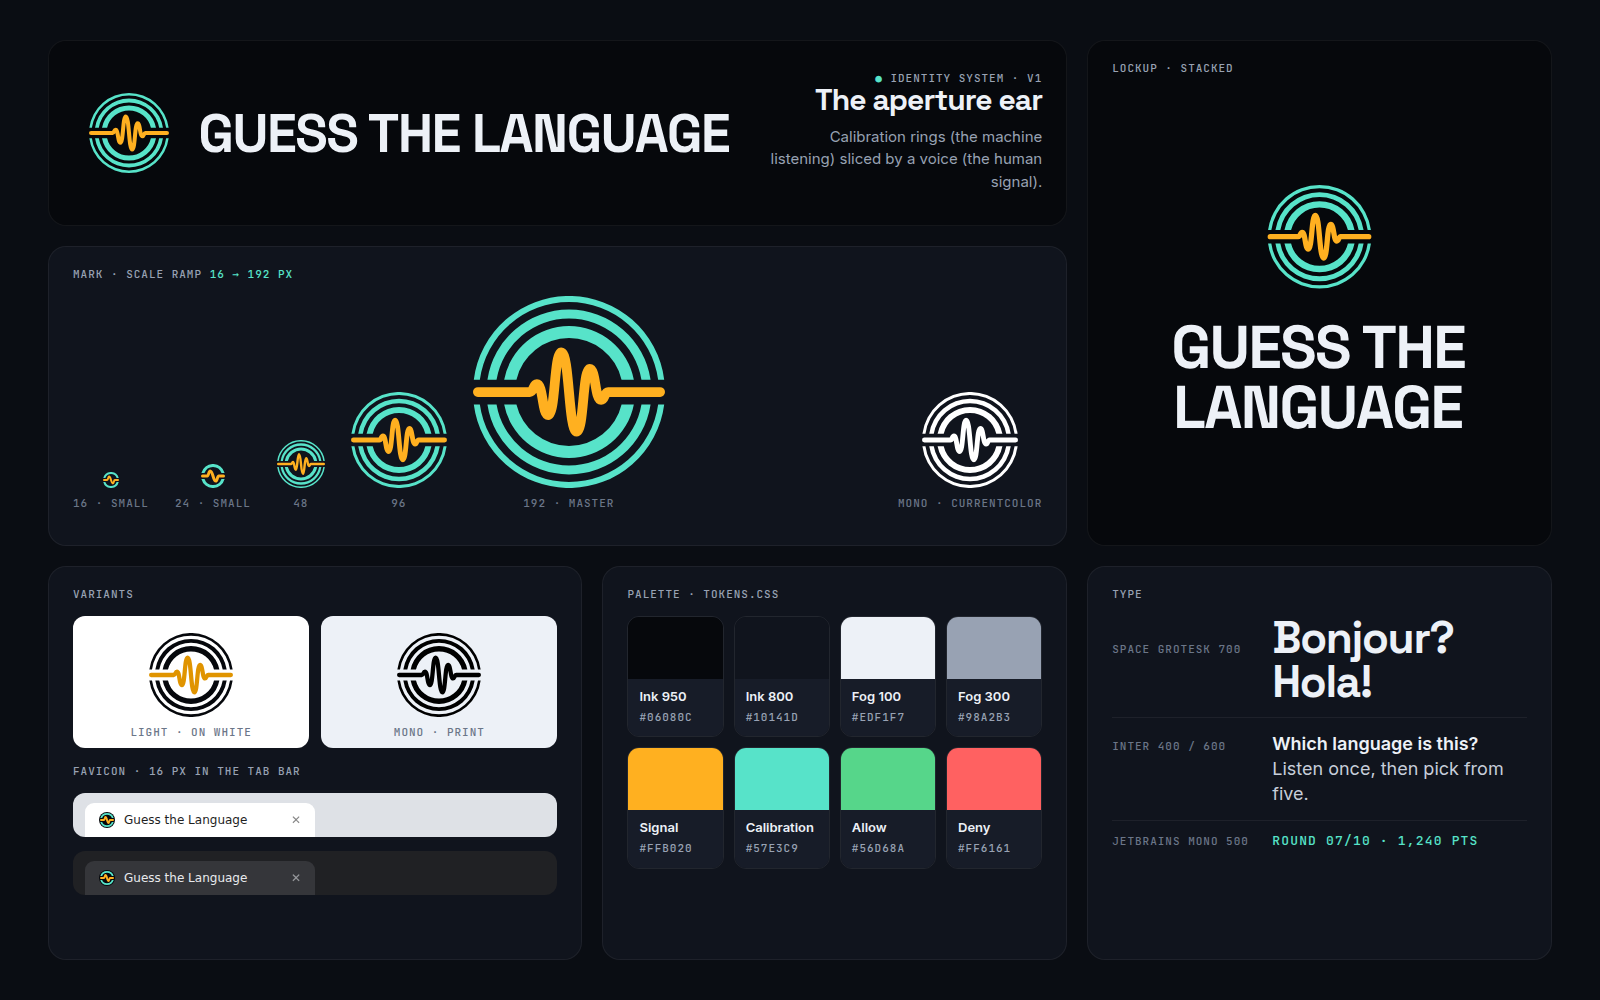
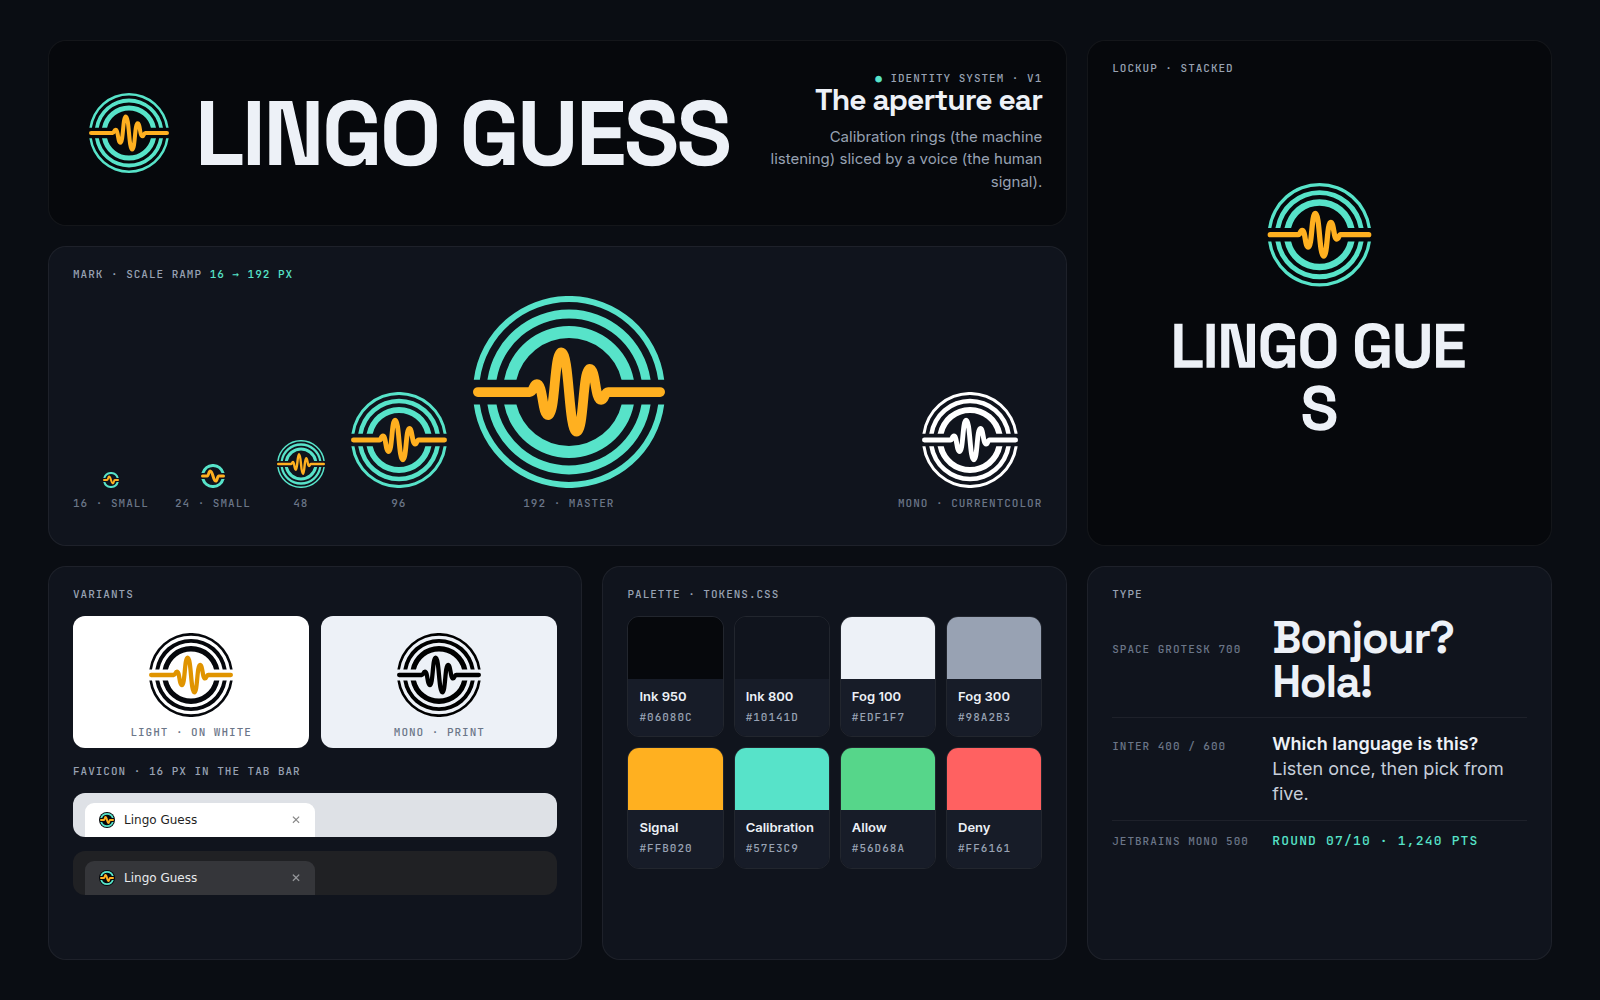
Rebrand to Lingo Guess: code, docs, admin, brand assets, domain-root base path

diff --git a/brand/preview.html b/brand/preview.html
@@ -2,7 +2,7 @@
 <html lang="en">
 <head>
 <meta charset="utf-8">
-<title>Guess the Language — identity contact sheet</title>
+<title>Lingo Guess — identity contact sheet</title>
 <!-- Source for brand/preview.png (1600×1000). Render: node brand/tools/build.mjs -->
 <link rel="stylesheet" href="../public/fonts/fonts.css">
 <style>
@@ -56,7 +56,7 @@
 </head>
 <body>
   <section class="card hero">
-    <img src="lockup-horizontal.svg" alt="Guess the Language lockup">
+    <img src="lockup-horizontal.svg" alt="Lingo Guess lockup">
     <div class="meta">
       <p class="label"><b>●</b> Identity system · v1</p>
       <h1>The aperture ear</h1>
@@ -89,8 +89,8 @@
     </div>
     <p class="label" style="margin-top:18px">Favicon · 16 px in the tab bar</p>
     <div class="tabs">
-      <div class="strip light"><div class="tab"><img src="../public/favicon.svg" alt=""><span>Guess the Language</span><em>✕</em></div></div>
-      <div class="strip dark"><div class="tab"><img src="../public/favicon.svg" alt=""><span>Guess the Language</span><em>✕</em></div></div>
+      <div class="strip light"><div class="tab"><img src="../public/favicon.svg" alt=""><span>Lingo Guess</span><em>✕</em></div></div>
+      <div class="strip dark"><div class="tab"><img src="../public/favicon.svg" alt=""><span>Lingo Guess</span><em>✕</em></div></div>
     </div>
   </section>
 

diff --git a/brand/og.html b/brand/og.html
@@ -2,7 +2,7 @@
 <html lang="en">
 <head>
 <meta charset="utf-8">
-<title>Guess the Language — share card</title>
+<title>Lingo Guess — share card</title>
 <!-- Source for public/og.png (1200×630) and public/og-square.png (1200×1200).
      Render with `node brand/tools/build.mjs` (inlines fonts + images first). -->
 <link rel="stylesheet" href="../public/fonts/fonts.css">
@@ -36,14 +36,14 @@
 <canvas id="field"></canvas>
 <div class="mono tl"><b>●</b> Listening</div>
 <div class="mono tr">76 languages</div>
-<div class="mono bl">mvpetrone.github.io/Language-guesser</div>
+<div class="mono bl">lingoguess.com</div>
 <div class="mono br">10 rounds · 3 lives</div>
 <main class="stage">
   <div class="aperture">
     <i class="tick t"></i><i class="tick b"></i><i class="tick l"></i><i class="tick r"></i>
     <img src="mark.svg" alt="">
   </div>
-  <img class="word" src="wordmark.svg" alt="Guess the Language">
+  <img class="word" src="wordmark.svg" alt="Lingo Guess">
   <p class="tag">Hear one sentence. Name the language.</p>
 </main>
 <script>

diff --git a/brand/motion/logo-reveal.html b/brand/motion/logo-reveal.html
@@ -2,7 +2,7 @@
 <html lang="en">
 <head>
 <meta charset="utf-8">
-<title>Guess the Language — logo reveal (1080 × 1080, 5 s)</title>
+<title>Lingo Guess — logo reveal (1080 × 1080, 5 s)</title>
 <link rel="stylesheet" href="../../src/styles/tokens.css">
 <link rel="stylesheet" href="motion-kit.css">
 </head>
@@ -188,7 +188,7 @@ function words(ctx, t) {
     ctx.textBaseline = 'alphabetic'
     ctx.fillStyle = K.rgba(C.fog100, a)
     ctx.filter = `blur(${(7 * (1 - settle(K.seg(t, T.word, d4)))).toFixed(2)}px)`
-    ctx.fillText('GUESS THE LANGUAGE', 540 + track / 2, WORD_Y)
+    ctx.fillText('LINGO GUESS', 540 + track / 2, WORD_Y)
     ctx.filter = 'none'
   }
   const b = settle(K.seg(t, T.tag, d3))

diff --git a/playwright.config.ts b/playwright.config.ts
@@ -14,7 +14,7 @@ export default defineConfig({
   retries: 0,
   reporter: 'list',
   use: {
-    baseURL: `http://127.0.0.1:${PORT}/Language-guesser/`,
+    baseURL: `http://127.0.0.1:${PORT}/`,
     trace: 'off',
   },
   projects: [
@@ -25,7 +25,7 @@ export default defineConfig({
   ],
   webServer: {
     command: `node scripts/serve-dist.mjs ${PORT}`,
-    url: `http://127.0.0.1:${PORT}/Language-guesser/`,
+    url: `http://127.0.0.1:${PORT}/`,
     reuseExistingServer: false,
     timeout: 15_000,
   },

diff --git a/src/styles/index.css b/src/styles/index.css
@@ -1,5 +1,5 @@
 /* ============================================================================
-   GUESS THE LANGUAGE — STYLESHEET ENTRY (the only CSS file main.tsx imports)
+   LINGO GUESS — STYLESHEET ENTRY (the only CSS file main.tsx imports)
    ----------------------------------------------------------------------------
    Layer order, lowest priority first. A later layer always beats an earlier
    one regardless of selector specificity, so screens can adjust controls

diff --git a/vite.config.ts b/vite.config.ts
@@ -3,9 +3,9 @@ import { defineConfig } from 'vitest/config'
 
 // https://vite.dev/config/
 export default defineConfig({
-  // MUST match the GitHub repo name exactly — GitHub Pages serves project
-  // sites from https://<user>.github.io/<repo>/
-  base: '/Language-guesser/',
+  // The site is served from the domain root (lingoguess.com), so assets,
+  // audio and /admin all resolve from '/'.
+  base: '/',
   plugins: [react()],
   test: {
     environment: 'node',

diff --git a/src/styles/tokens.css b/src/styles/tokens.css
@@ -1,5 +1,5 @@
 /* ============================================================================
-   GUESS THE LANGUAGE — DESIGN TOKENS (FROZEN CONTRACT)
+   LINGO GUESS — DESIGN TOKENS (FROZEN CONTRACT)
    ----------------------------------------------------------------------------
    This file is the single source of truth for the brand's raw values.
    It is FROZEN: agents and components may *consume* these variables and may add

diff --git a/brand/motion/waveform-loop.html b/brand/motion/waveform-loop.html
@@ -2,7 +2,7 @@
 <html lang="en">
 <head>
 <meta charset="utf-8">
-<title>Guess the Language — waveform loop (1080 × 1080, 6 s seamless)</title>
+<title>Lingo Guess — waveform loop (1080 × 1080, 6 s seamless)</title>
 <link rel="stylesheet" href="../../src/styles/tokens.css">
 <link rel="stylesheet" href="motion-kit.css">
 </head>

diff --git a/brand/motion/score-sting.html b/brand/motion/score-sting.html
@@ -2,7 +2,7 @@
 <html lang="en">
 <head>
 <meta charset="utf-8">
-<title>Guess the Language — score sting (1080 × 1080, 2 s)</title>
+<title>Lingo Guess — score sting (1080 × 1080, 2 s)</title>
 <link rel="stylesheet" href="../../src/styles/tokens.css">
 <link rel="stylesheet" href="motion-kit.css">
 <style>

diff --git a/server/admin/assets/admin.css b/server/admin/assets/admin.css
@@ -1,4 +1,4 @@
-/* LingoGuess Admin — same visual language as the game: near-black, amber, mono numerals. */
+/* Lingo Guess Admin — same visual language as the game: near-black, amber, mono numerals. */
 :root {
   --bg: #06080c;
   --panel: #0c1017;

diff --git a/server/admin/dashboard.php b/server/admin/dashboard.php
@@ -13,7 +13,7 @@ $csrf = csrf_token();
 <meta charset="utf-8" />
 <meta name="viewport" content="width=device-width, initial-scale=1" />
 <meta name="robots" content="noindex, nofollow" />
-<title>Traffic · LingoGuess Admin</title>
+<title>Traffic · Lingo Guess Admin</title>
 <link rel="icon" href="/favicon.svg" type="image/svg+xml" />
 <link rel="stylesheet" href="/fonts/fonts.css" />
 <link rel="stylesheet" href="/admin/assets/admin.css" />
@@ -22,7 +22,7 @@ $csrf = csrf_token();
 <header class="topbar">
   <div class="brand">
     <span class="brand-mark" aria-hidden="true"></span>
-    <div><strong>LingoGuess</strong><small>Admin · CRM</small></div>
+    <div><strong>Lingo Guess</strong><small>Admin · CRM</small></div>
   </div>
   <span class="pill"><span class="dot"></span><span id="live">—</span> live now</span>
   <div class="spacer"></div>

diff --git a/server/admin/activity.php b/server/admin/activity.php
@@ -13,7 +13,7 @@ $csrf = csrf_token();
 <meta charset="utf-8" />
 <meta name="viewport" content="width=device-width, initial-scale=1" />
 <meta name="robots" content="noindex, nofollow" />
-<title>Activity · LingoGuess Admin</title>
+<title>Activity · Lingo Guess Admin</title>
 <link rel="icon" href="/favicon.svg" type="image/svg+xml" />
 <link rel="stylesheet" href="/fonts/fonts.css" />
 <link rel="stylesheet" href="/admin/assets/admin.css" />
@@ -22,7 +22,7 @@ $csrf = csrf_token();
 <header class="topbar">
   <div class="brand">
     <span class="brand-mark" aria-hidden="true"></span>
-    <div><strong>LingoGuess</strong><small>Admin · CRM</small></div>
+    <div><strong>Lingo Guess</strong><small>Admin · CRM</small></div>
   </div>
   <div class="spacer"></div>
   <span class="who"><?= h((string) $user['username']) ?></span>
